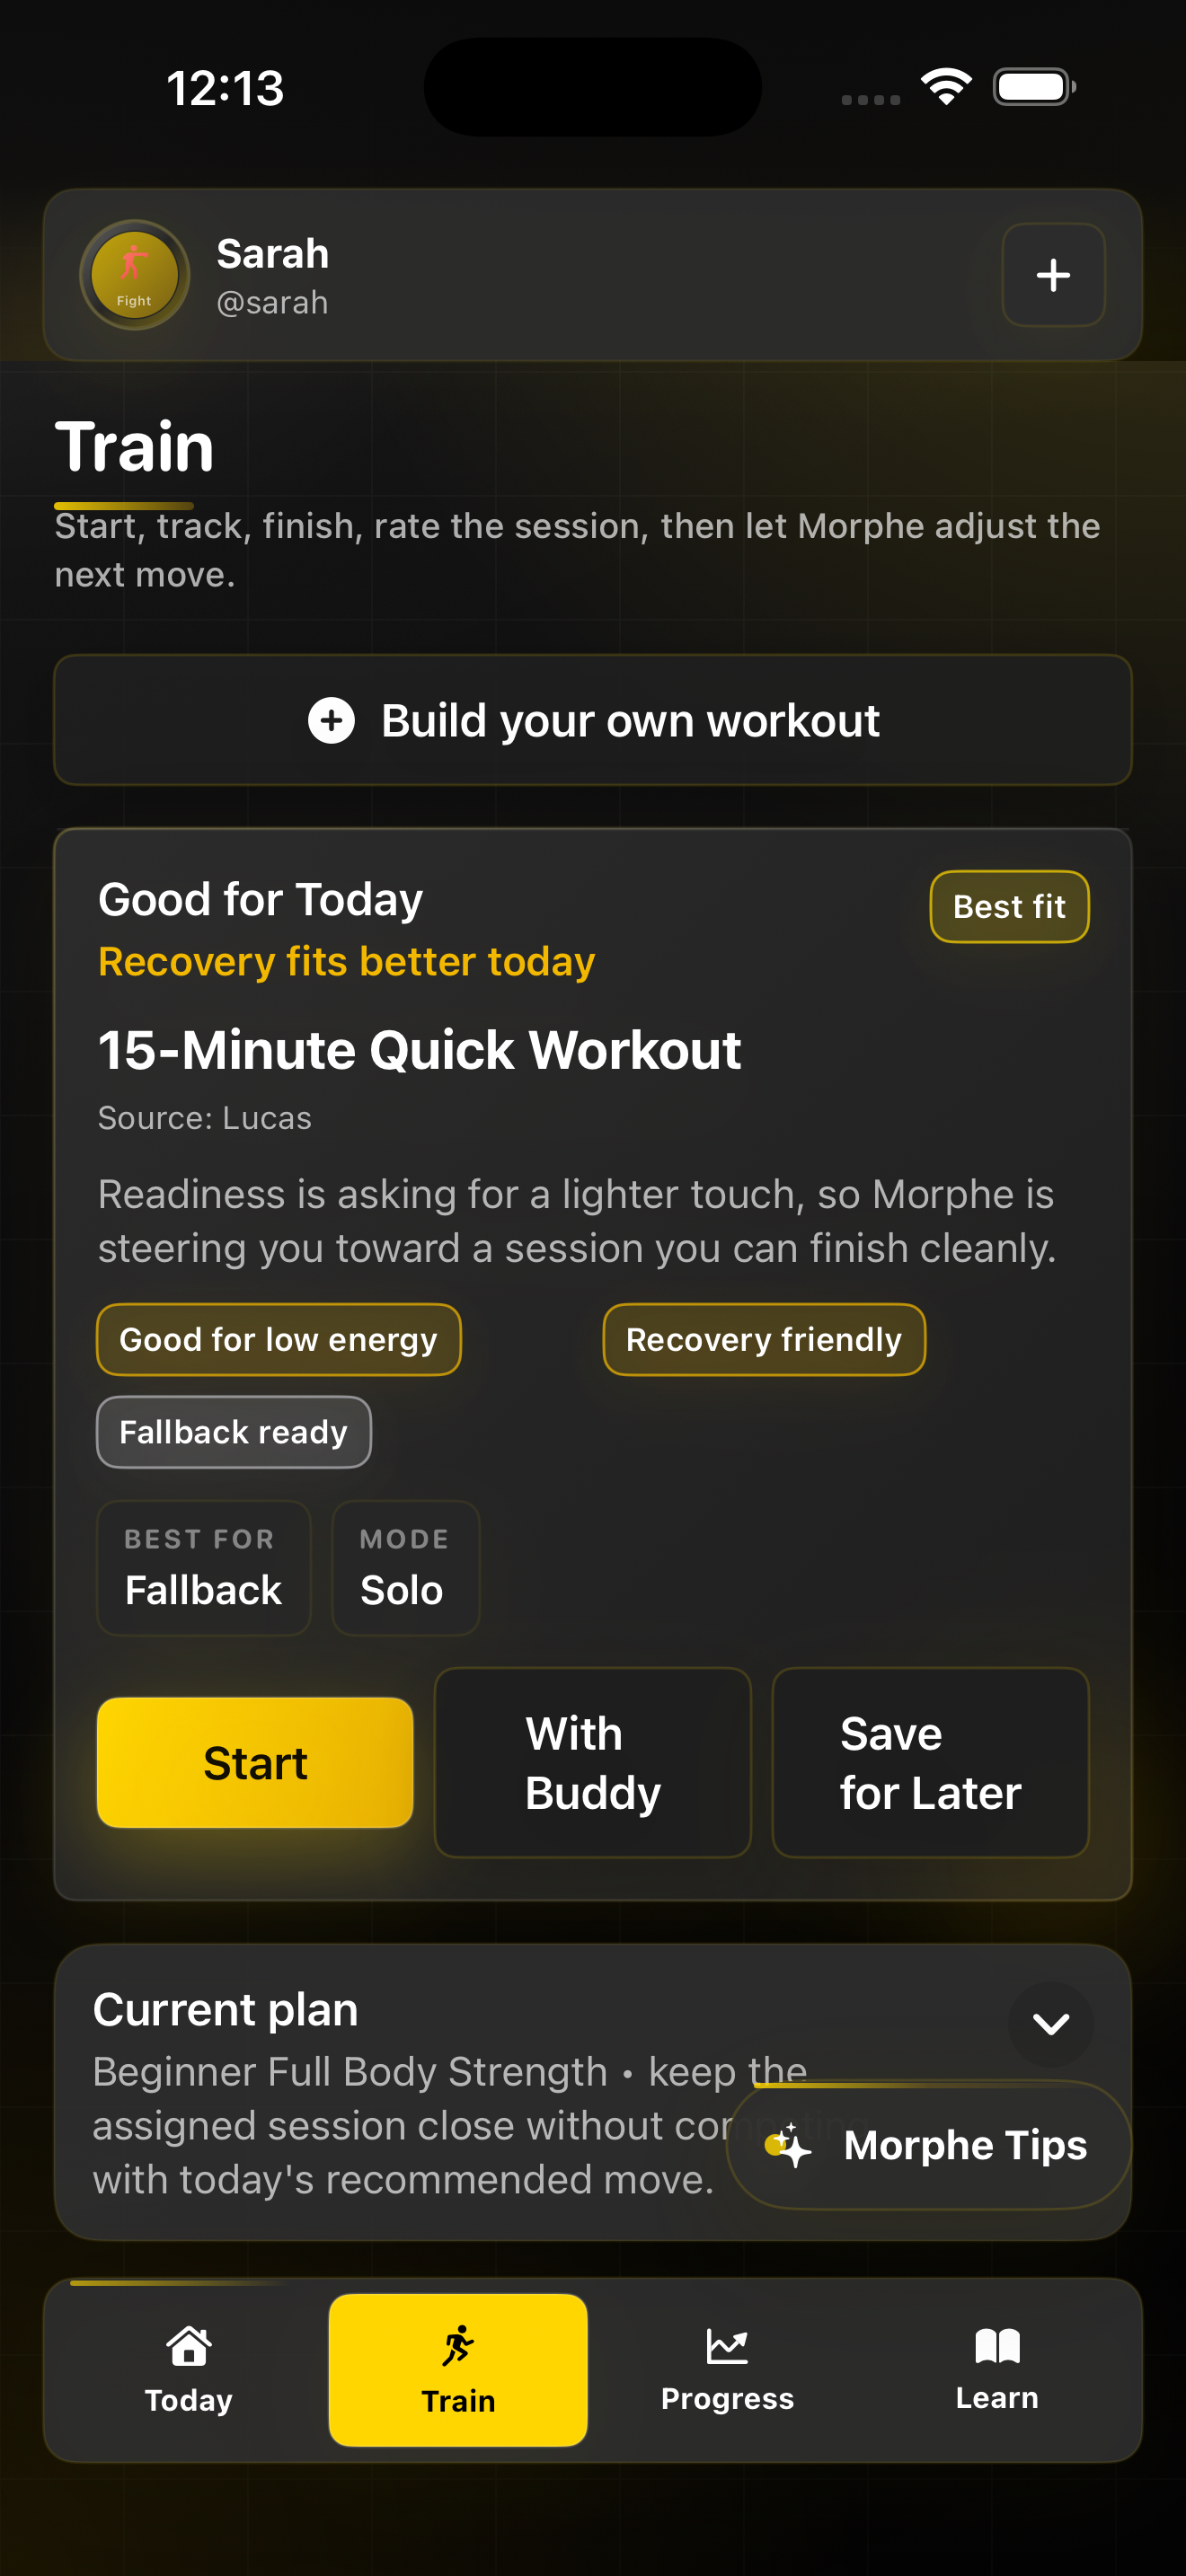
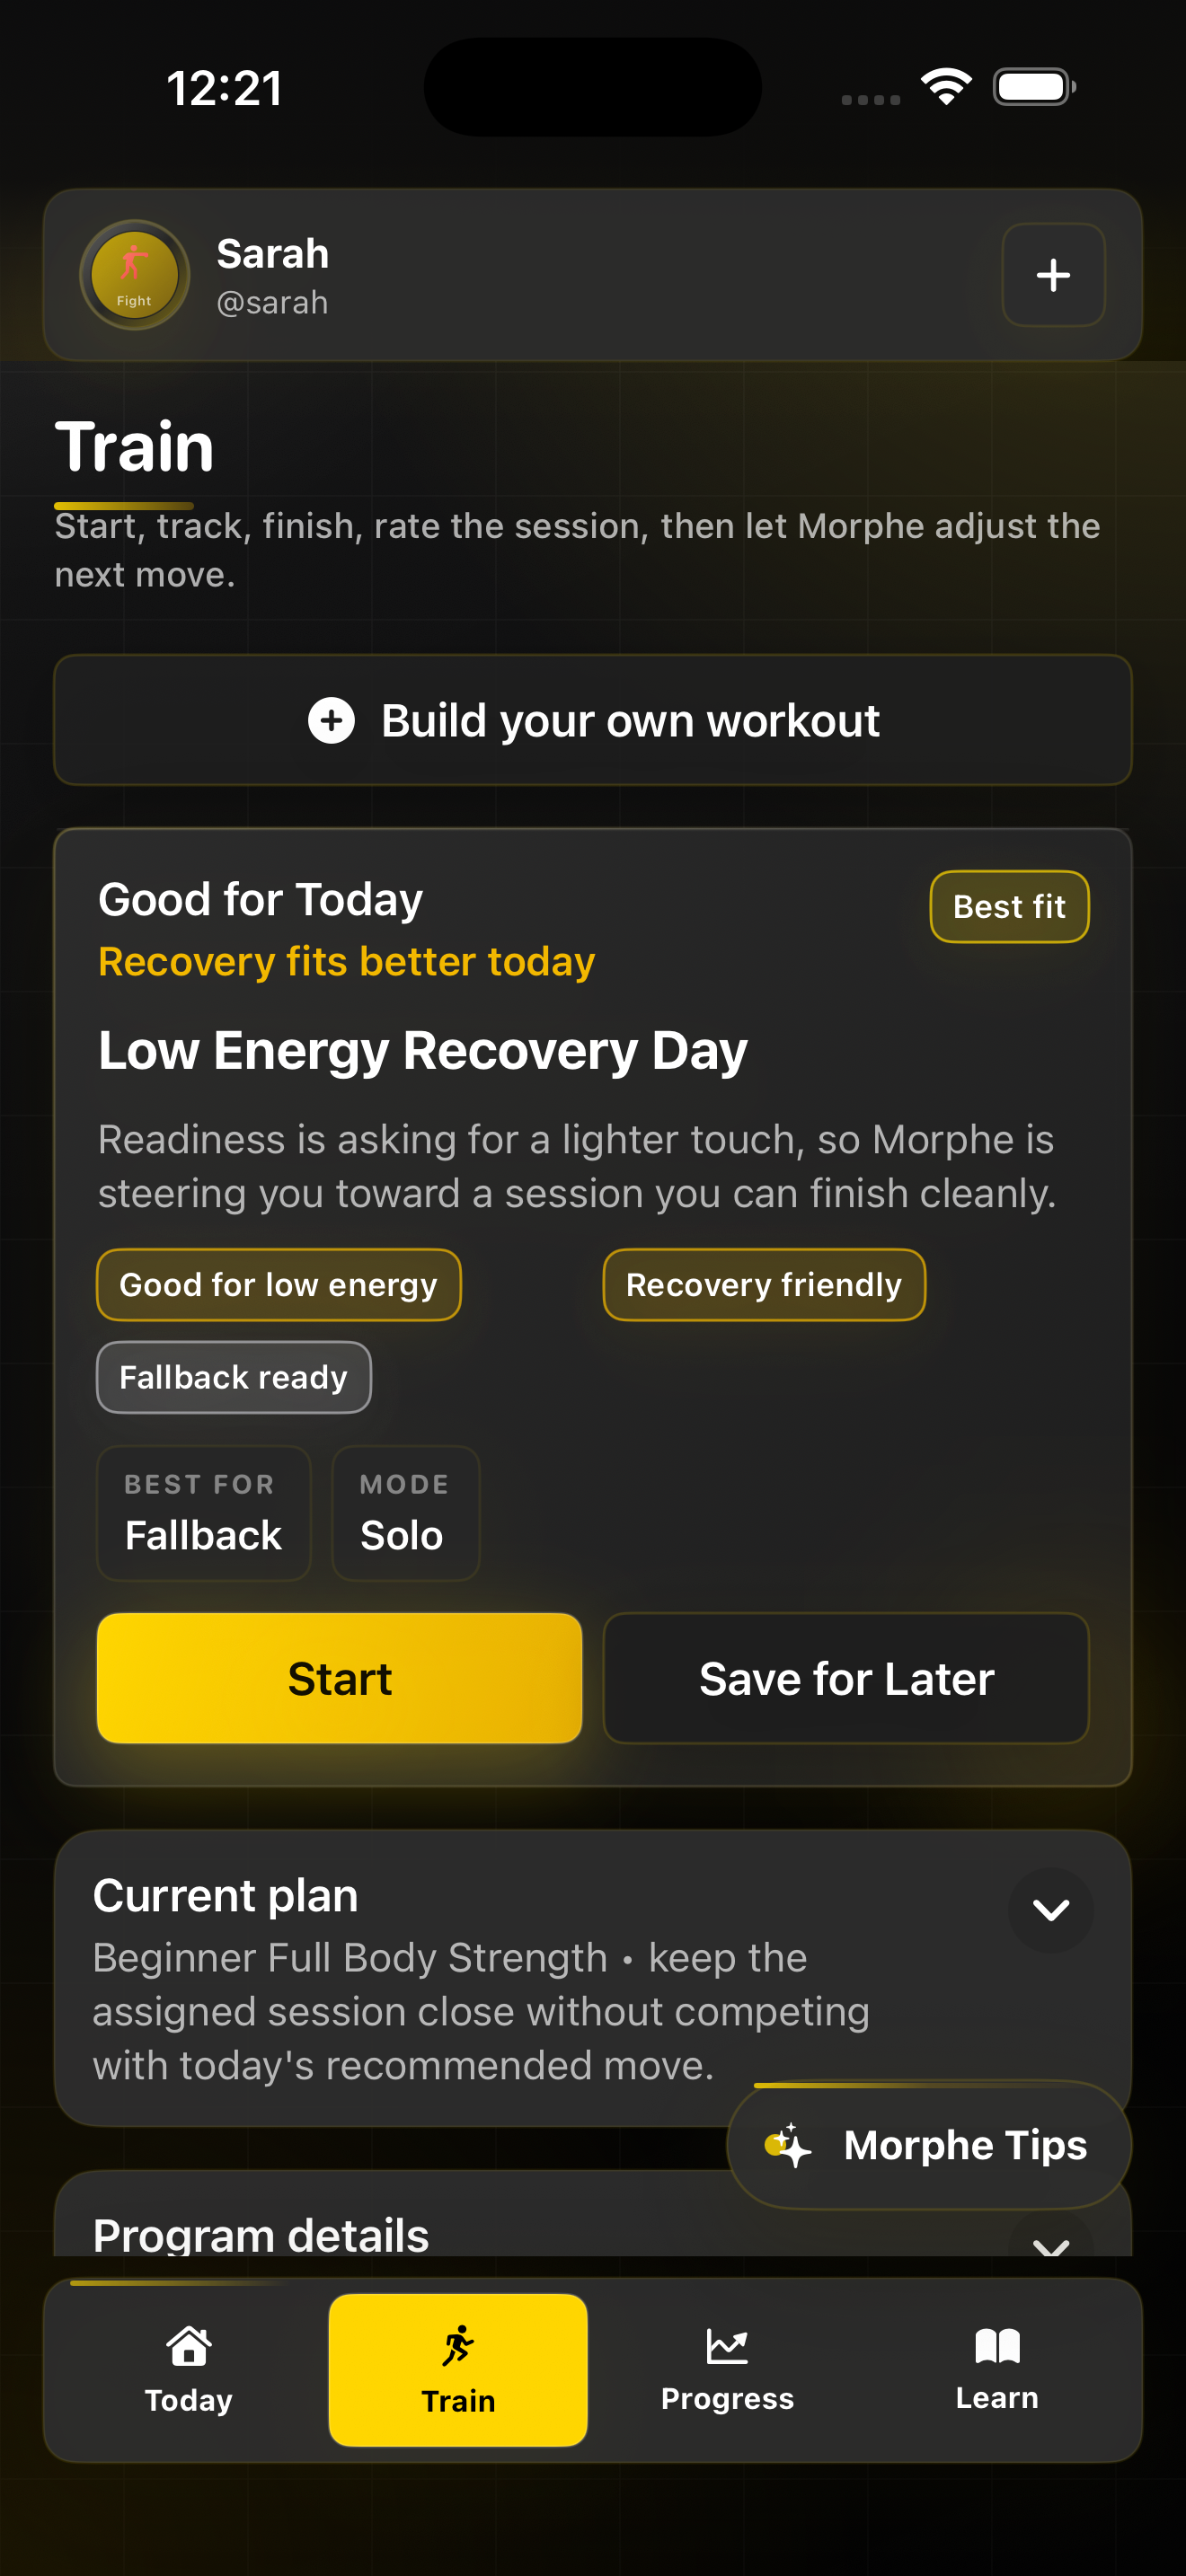
Fix Train leaks: drop 'Source: Lucas' and hide buddy UI in v1
The 'Good for Today' card showed 'Source: <demo athlete>' and offered
'With Buddy' (a v2 multi-user feature) — both leaked into the solo v1 experience.

- Removed the 'Source:' line from the Good for Today card (it implied a
  coach/other-person origin that doesn't exist in solo v1).
- Gated all buddy/partner UI (the 'Buddy friendly' badge, 'Buddy' mode, partner
  pill, and every 'With Buddy' button across the recommendation and saved-workout
  cards) behind FeatureFlags.multiUserEnabled.
- Clear seeded savedWorkouts in clearSeededDemoData so their demo/coach source
  names never surface to a real user.
- Updated the Train App Store screenshot to the clean state.

Build + all tests pass.

Changed region(s): [[0.0311, 0.4034, 0.9629, 0.8999], [0.1864, 0.031, 0.2485, 0.0621]]

diff --git a/Morphe/WorkoutView.swift b/Morphe/WorkoutView.swift
@@ -1121,19 +1121,14 @@ private struct GoodForTodayWorkoutCard: View {
                     Spacer()
 
                     StatusBadge(
-                        text: recommendation.prefersBuddy ? "Buddy friendly" : "Best fit",
-                        color: recommendation.prefersBuddy ? MorpheTheme.warning : MorpheTheme.accent
+                        text: showBuddy ? "Buddy friendly" : "Best fit",
+                        color: showBuddy ? MorpheTheme.warning : MorpheTheme.accent
                     )
                 }
 
-                VStack(alignment: .leading, spacing: 6) {
-                    Text(recommendation.workoutName)
-                        .font(.title3.weight(.bold))
-                        .foregroundStyle(.white)
-                    Text("Source: \(recommendation.sourceName)")
-                        .font(.caption)
-                        .foregroundStyle(MorpheTheme.textSecondary)
-                }
+                Text(recommendation.workoutName)
+                    .font(.title3.weight(.bold))
+                    .foregroundStyle(.white)
 
                 Text(recommendation.reasonDetail)
                     .font(.subheadline)
@@ -1155,8 +1150,8 @@ private struct GoodForTodayWorkoutCard: View {
 
                 HStack(spacing: 8) {
                     MetricPill(label: "Best for", value: recommendation.bestFor.rawValue)
-                    MetricPill(label: "Mode", value: recommendation.prefersBuddy ? "Buddy" : "Solo")
-                    if let selectedPartnerName, recommendation.prefersBuddy {
+                    MetricPill(label: "Mode", value: showBuddy ? "Buddy" : "Solo")
+                    if let selectedPartnerName, showBuddy {
                         MetricPill(label: "Partner", value: selectedPartnerName)
                     }
                 }
@@ -1167,10 +1162,12 @@ private struct GoodForTodayWorkoutCard: View {
                     }
                     .buttonStyle(PrimaryCTAButtonStyle(accent: MorpheTheme.accent))
 
-                    Button("With Buddy") {
-                        onWithBuddy()
+                    if showBuddy {
+                        Button("With Buddy") {
+                            onWithBuddy()
+                        }
+                        .buttonStyle(SecondaryCTAButtonStyle())
                     }
-                    .buttonStyle(SecondaryCTAButtonStyle())
 
                     Button("Save for Later") {
                         onSaveForLater()
@@ -1179,6 +1176,11 @@ private struct GoodForTodayWorkoutCard: View {
                 }
             }
         }
+    }
+
+    /// Buddy/partner UI is a v2 (multi-user) surface, hidden in v1.
+    private var showBuddy: Bool {
+        FeatureFlags.multiUserEnabled && recommendation.prefersBuddy
     }
 
     private func chipColor(for chip: String) -> Color {
@@ -1608,10 +1610,12 @@ private struct SavedWorkoutsLibraryCard: View {
                                     }
                                     .buttonStyle(PrimaryCTAButtonStyle(accent: MorpheTheme.accent))
 
-                                    Button("With Buddy") {
-                                        onWithBuddy(item)
+                                    if FeatureFlags.multiUserEnabled {
+                                        Button("With Buddy") {
+                                            onWithBuddy(item)
+                                        }
+                                        .buttonStyle(SecondaryCTAButtonStyle())
                                     }
-                                    .buttonStyle(SecondaryCTAButtonStyle())
                                 }
 
                                 Button("Unpin") {
@@ -1720,10 +1724,12 @@ private struct SavedWorkoutsLibraryCard: View {
                                 }
                                 .buttonStyle(SecondaryCTAButtonStyle())
 
-                                Button("With Buddy") {
-                                    onWithBuddy(item)
+                                if FeatureFlags.multiUserEnabled {
+                                    Button("With Buddy") {
+                                        onWithBuddy(item)
+                                    }
+                                    .buttonStyle(SecondaryCTAButtonStyle())
                                 }
-                                .buttonStyle(SecondaryCTAButtonStyle())
 
                                 Button("Duplicate") {
                                     onDuplicate(item)
@@ -1917,10 +1923,12 @@ private struct ShortcutWorkoutSection: View {
                         }
                         .buttonStyle(SecondaryCTAButtonStyle())
 
-                        Button("With Buddy") {
-                            onWithBuddy(item)
+                        if FeatureFlags.multiUserEnabled {
+                            Button("With Buddy") {
+                                onWithBuddy(item)
+                            }
+                            .buttonStyle(SecondaryCTAButtonStyle())
                         }
-                        .buttonStyle(SecondaryCTAButtonStyle())
                     }
                 }
                 .padding(12)

diff --git a/Morphe/Core/MorpheStore.swift b/Morphe/Core/MorpheStore.swift
@@ -1258,6 +1258,9 @@ final class MorpheAppStore {
         profileShowcase.featuredWorkouts = []
         profileShowcase.featuredVideos = []
 
+        // Seeded saved workouts carry demo/coach source names — clear them.
+        savedWorkouts = []
+
         // Remove all seeded "other people": buddies, friends, community, network.
         workoutPartners = []
         selectedWorkoutPartnerID = nil